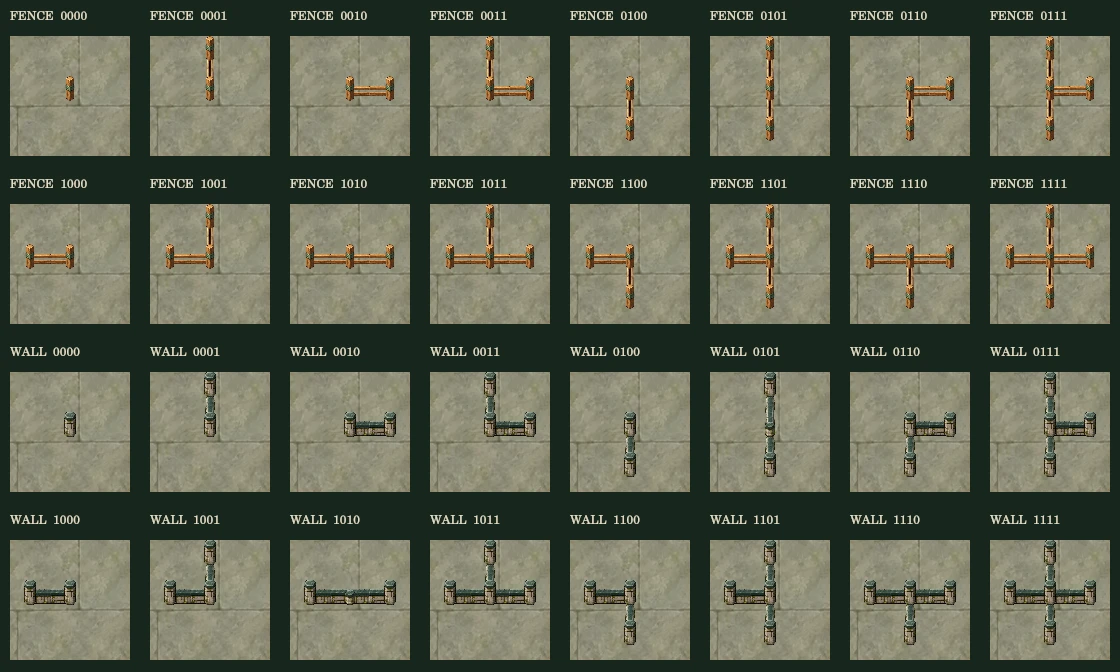
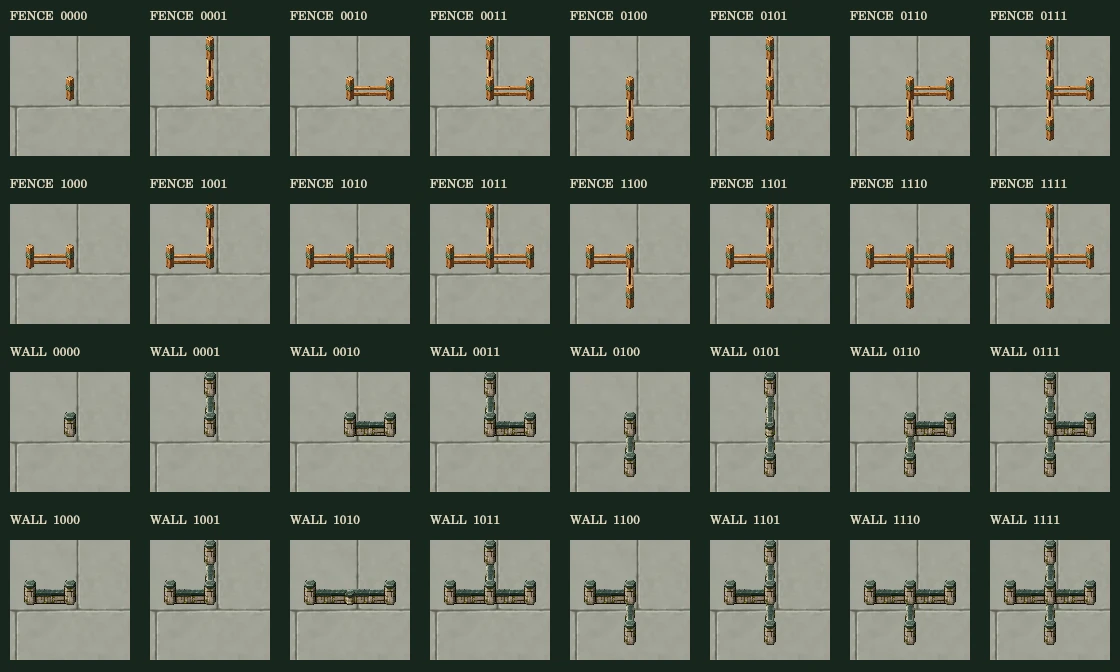
Replace hazy ground art and render terrain at device resolution
Repaint the twenty AI terrain materials with clean restrained colour shapes, reduce prominent repeating land patterns, and keep material order, seeded scenery and all other twenty-eight AI images unchanged. The opaque 512x640 WebP ground atlas is 13,678 bytes; include final prompts and before/after previews.

Copy each isolated material one-to-one and sample crops directly into buffers sized for DPR and zoom, instead of always enlarging to 80px before display rescaling. Refresh raster caches when physical size changes and narrow biome transitions to retain clear surfaces. Update browser/native capture scripts for variable raster dimensions and add high-DPI, zoom and cache verification.

Validation: all 1,855 tests passed; syntax/module audit, module-version checks and diff checks passed. Native Canvas checks pass at DPR 2 with zoom 0.65/1/1.8, four raster scales have zero mirrored seam difference, and all 32 fence/wall states retain connected coverage.

diff --git a/public/world/world-ground.js b/public/world/world-ground.js
@@ -1,7 +1,7 @@
 /* Compose the AI textures through neighbour masks; cache the resulting small tiles. */
 (function(root){
   'use strict';
-  const SIZE=80,SPAN=4;
+  const SPAN=4;
   function textureFrame(Art,t,x=0,y=0){
     const cell=Math.max(0,Art.terrain.indexOf(t)),step=128/SPAN;
     const phase=n=>((n%(SPAN*2))+SPAN*2)%(SPAN*2),px=phase(x),py=phase(y);
@@ -18,10 +18,15 @@
   }
   function transitionAlpha(direction,u,v){
     const distances=[v,1-u,1-v,u,Math.hypot(u,v),Math.hypot(1-u,v),Math.hypot(1-u,1-v),Math.hypot(u,1-v)];
-    return Math.max(0,1-distances[direction]/.24)*.5;
+    return Math.max(0,1-distances[direction]/.12)*.5;
   }
   function create(Art,canvasFactory=()=>document.createElement('canvas')){
-    const tiles=new Map(),masks=new Map(),materials=new Map();
+    const tiles=new Map(),masks=new Map(),materials=new Map();let SIZE=80;
+    function setScale(scale){
+      if(!Number.isFinite(scale)||scale<=0)return;
+      const size=Math.max(26,Math.min(144,Math.round(40*scale)));
+      if(size===SIZE)return;SIZE=size;tiles.clear();masks.clear();
+    }
     const canvas=()=>{const c=canvasFactory();c.width=SIZE;c.height=SIZE;return c;};
     function mask(key,alpha){
       if(masks.has(key))return masks.get(key);
@@ -39,12 +44,15 @@
         const s=textureFrame(Art,t,info.x,info.y);context.save();
         // Isolate atlas cells before enlarging, so filtering cannot pick up another material.
         if(!materials.has(t)){
-          const cell=canvas();cell.width=cell.height=128;
+          const cell=canvas();cell.width=cell.height=124;
           // Ignore the two-pixel rim affected by WebP chroma subsampling at atlas joins.
-          cell.getContext('2d').drawImage(atlas,Math.floor(s.sx/128)*128+2,Math.floor(s.sy/128)*128+2,124,124,0,0,128,128);materials.set(t,cell);
+          cell.getContext('2d').drawImage(atlas,Math.floor(s.sx/128)*128+2,Math.floor(s.sy/128)*128+2,124,124,0,0,124,124);materials.set(t,cell);
         }
         context.translate(s.flipX?SIZE:0,s.flipY?SIZE:0);context.scale(s.flipX?-1:1,s.flipY?-1:1);
-        context.drawImage(materials.get(t),s.sx%128,s.sy%128,s.sw,s.sh,0,0,SIZE,SIZE);context.restore();
+        // Copy the material once at native resolution, then resample each crop
+        // directly to its device-pixel size. Avoid enlarging to 80px and shrinking again.
+        const ratio=124/128;
+        context.drawImage(materials.get(t),(s.sx%128)*ratio,(s.sy%128)*ratio,s.sw*ratio,s.sh*ratio,0,0,SIZE,SIZE);context.restore();
       };
       const overlay=(t,m)=>{
         const layer=canvas(),context=layer.getContext('2d');texture(context,t);context.globalCompositeOperation='destination-in';context.drawImage(m,0,0);c.drawImage(layer,0,0);
@@ -67,7 +75,7 @@
       }
       tiles.set(info.key,target);if(tiles.size>512)tiles.delete(tiles.keys().next().value);return target;
     }
-    return Object.freeze({compose,get cachedTiles(){return tiles.size;}});
+    return Object.freeze({compose,setScale,get tileSize(){return SIZE;},get cachedTiles(){return tiles.size;}});
   }
   const api=Object.freeze({create,roadAlpha,transitionAlpha,textureFrame});
   if(typeof module==='object'&&module.exports)module.exports=api;else root.QAGridWorldGround=api;

diff --git a/public/world/world-renderer.js b/public/world/world-renderer.js
@@ -139,6 +139,7 @@ export class WorldRenderer {
       top=Math.max(0,Math.floor(this.camera.y-this.height/s/2)-2),bottom=Math.min(this.world.SIZE-1,Math.ceil(this.camera.y+this.height/s/2)+2),decor=[];
     const visible=(x,y)=>W.known(d.state.explored,x,y)||!!(b&&x>=b.bounds.x&&x<b.bounds.x+8&&y>=b.bounds.y&&y<b.bounds.y+8),events=b?.events||d.events;
     const scenery=this.sceneryModel(),signature=[left,right,top,bottom,d.state.explored.revision,d.state.explored.all,W.patchRevision,events?.bridge,events?.array,b?.id,b?.revision].join(':');
+    this.ground?.setScale(this.dpr*zoom);
     if(signature!==this.scenerySignature){this.scenerySignature=signature;this.sceneryItems=scenery.inBounds({x:left,y:top,w:right-left+1,h:bottom-top+1},events,visible);}
     for(let y=top;y<=bottom;y++)for(let x=left;x<=right;x++){
       const discovered=visible(x,y);

diff --git a/public/assets/world-map/ai/ground-prompts.md b/public/assets/world-map/ai/ground-prompts.md
@@ -1,22 +1,30 @@
-# 簡化地面材質
+# 清晰地面材質
 
-使用內建 `image_gen`，以原本的地面圖集為編輯輸入，重新繪製二十種低細節材質。正式檔案為 `ground-atlas.webp`（512 × 640，每格 128 × 128）；來源 SHA-256 與下載大小見 `manifest.json`。
+使用內建 `image_gen` 重新繪製二十種地面材質，並進行一次降低重複花紋的定向修訂。最終來源為 `exec-848dabaf-24e9-4033-8add-c1929411134d.png`；正式檔案 `ground-atlas.webp` 維持 512 × 640、每格 128 × 128、不透明 WebP，quality 84。來源 SHA-256 與大小見 `manifest.json`。
 
-原始生成圖為 1122 × 1402。依實際材質邊界裁切：`columns: [0,268,561,855,1122]`、`rows: [0,262,526,790,1054,1402]`、`inset: 3`。打包器的 `inset` 排除交界色；繪製時再排除壓縮圖集邊緣的兩像素，防止 WebP 色度取樣造成異色細線。
+原始圖 1122 × 1402；裁切參數 `columns: [0,280,561,841,1122]`、`rows: [0,278,554,822,1088,1402]`、`inset: 3`。地面維持四乘四地格延伸與鏡像銜接；主色面積提高，小色塊降低對比，避免霧狀暈染與明顯的重複菱形圖案。建築、角色與地景物件沒有改圖。
 
-一張材質延伸四乘四地格，整塊鏡像銜接。道路仍依相鄰方向遮罩連接，河岸與地形交界保留混合。竹子、石頭、營地圍欄與建築繼續使用獨立圖片，地面不再承擔物件細節。
+繪製時以 124 × 124 像素原比例隔離材質，排除圖集壓縮邊緣；分區直接取樣至 `40 × DPR × zoom` 的實體像素尺寸，避免固定放大到 80 再縮小。縮放改變時更新地格與遮罩快取，原材質快取保留。不同生態的過渡限於交界 12% 寬度，保留連接、道路轉角及橋梁方向。
 
-## 生成提示詞
+## 初次重繪
+
+輸入：原本偏柔的地面圖集，保留二十格順序與大致配色。
 
 ```text
-Use case: style-transfer.
-Asset type: production terrain texture atlas for a top-down Chinese xianxia mobile grid-world game. Edit target: the attached existing 4-column by 5-row texture atlas. Redraw all twenty cells to solve extreme visual clutter from detailed photorealistic terrain repeated in tiny 40px game tiles.
-Keep exactly the SAME 4 x 5 grid, same cell order, equal square cell sizes, flush edge-to-edge with absolutely NO gutters, NO margins, NO visible grid or frames. Output dimensions 1024 x 1280. Every cell must be an opaque flat ground MATERIAL filling its whole square, never a diorama or raised floating tile. Preserve recognizable material and approximate existing hue, but simplify dramatically to restrained hand-painted game art: extremely calm, softly blended broad color masses with at most 2 or 3 very subtle organic low-contrast patches. Each tile will repeat across hundreds of cells. Texture variation within a tile should stay within about 5 percent brightness for grass/dirt/stone/snow. No focal point, no dark edges, no vignette. All four edges of each cell must meet seamlessly with copies of itself. Do not bake objects into the ground; trees, rocks, fences, bamboo and buildings are separate sprites.
-EXACT cell order left to right, top to bottom:
-Row 1: (1) muted sage green plain short-grass ground, no individual blades; (2) warm tan packed dirt road material, no pebbles; (3) pale gray-green courtyard stone, only two or three large very faint slab seams, no chips; (4) muted dark olive mountain earth, no pebbles or moss flecks.
-Row 2: (5) quiet soft turquoise river surface, only one or two very faint broad rounded ripples, no caustic net; (6) subdued warm gray-brown wooden bridge planks, only three large broad planks; (7) same quiet bridge wood, tiny damage hint only; (8) muted jade green bamboo-forest earth, flat and empty, no leaves or stems.
-Row 3: (9) slate gray rock material, large soft tonal masses and at most one faint wide crack, no gravel; (10) quiet gray sealed ground with one extremely faint broad seal circle; (11) muted deep slate blue ocean surface, almost flat, two soft broad ripples, no foam; (12) calm warm pale sand, no footprints or stones.
-Row 4: (13) dark desaturated green forest floor, no leaves or twigs; (14) muted golden desert sand with one faint broad dune contour; (15) pale cool snow, nearly flat with gentle shaded undulation; (16) gray-olive swamp ground, softly blended, no gravel or details.
-Row 5: (17) pale warm gray stone field ground, no scattered stones or gravel; (18) quiet charcoal volcanic ground with a single subtle dim rust-colored fissure; (19) muted dark orange-red lava with just one or two broad soft orange bands, avoid bright yellow busy veins; (20) pale gray-green plaza stone with only a single very faint large circular inlay, no ornamental pattern.
-Style target: clean softly painted RPG ground, pleasant subdued palette, generous visual quiet, character and building readability. Remove 90 percent of the source detail and microtexture. Avoid photographic grain, speckles, stippling, tight grass blades, repeated fine lines, pebbles, tiny flowers, high contrast cracks, decorative patterns, checkerboards, text, labels, symbols outside the subtle seal/plaza, UI, shadows around cell edges. This atlas should look deliberately simple at 100 percent view; do not reintroduce details to make it look more realistic.
+Use case: style-transfer. Asset type: production opaque terrain texture atlas for a Chinese xianxia overhead 2D mobile grid RPG. EDIT the attached existing 4-column by 5-row atlas. Keep every material in exactly its current position and retain the overall muted natural color palette, but REMOVE the foggy muddy blurry cloud texture completely. The game should have SIMPLE, CRISP, CLEAN GROUND under detailed miniature characters, buildings and plants. Main visual direction: restrained hand-painted cel-shaded game material, flat dominant base color with just 2-4 broad clean-edged tonal shapes per cell. All surfaces in sharp focus. Keep edges of tonal shapes legible and deliberate, with only minimal antialiasing, NO blurry airbrush blending. Shapes should be organic, not perfect vector symbols. Contrast is modest but clear; no milky white veil, no washed-out desaturated haze. No grain, mottled noise, photographic textures, watercolor bloom, soft clouds, cloudy marbling, fine scattered particles, detailed blades or tiny stones. This is low DETAIL, not low CLARITY. Exactly FOUR columns and FIVE rows of equal square cells, no gaps, frames, grid strokes or labels, flush opaque materials edge-to-edge, portrait 4:5 image. Each cell must fill its entire square, seamless on opposite sides, no dark border, no vignette, no bevel or floating tile. Pure overhead camera.
+Cell order left to right:
+Row1: (1) clear muted leaf-green meadow, almost uniform with only 2 small clean-edged darker grass-color patches, no drawn blades; (2) warm tan packed-earth road, nearly uniform with two broad earth-color shapes, no pebbles; (3) pale warm jade-grey courtyard with a FEW large clearly defined stone slabs and thin restrained joints, no cracks or moss speckles; (4) muted olive brown mountain earth with 2-3 broad clean rocky soil shapes, no loose pebbles.
+Row2: (5) calm turquoise river with THREE sparse distinct gently curved lighter ripple strokes, no caustic net; (6) warm brown bridge deck with FOUR broad clean wooden planks, no grain; (7) matching broad wood with a simple small broken gap, no debris; (8) calm muted jade-green bamboo soil, almost flat with two restrained leaf-color patches, no bamboo or leaves drawn individually.
+Row3: (9) slate grey cliff rock with 2-3 large clean planar rock shapes; (10) grey sealed ground with one sparse faint but crisp large abstract ring, no letters; (11) rich muted deep blue ocean with 3 broad sparse defined wave strokes, no foam; (12) pale warm sandy beach, almost uniform with 2 broad clean-edged sand shapes.
+Row4: (13) dark forest-green soil, nearly uniform with 2 broad dark shapes, no leaf litter; (14) ochre desert with TWO clean broad dune contours, no gradients; (15) clean pale cool snow with 2 defined light blue snow-shadow shapes, no haze; (16) quiet grey-olive swamp with 2-3 clean dark shallow puddle shapes, no speckles or reeds.
+Row5: (17) warm light grey stone field, almost uniform with 2 broad grey rock-color patches, no pebbles or stones; (18) charcoal volcanic ground with ONE clean narrow dim rust fissure, no fine cracks; (19) muted red-orange lava with THREE broad defined orange flow bands and a few large dark crust shapes, no glow haze, no bright busy veins; (20) pale jade-grey plaza with large simple slabs and one sparse crisp circular inlay, no decorative engraving.
+No objects, people, buildings, trees, rocks, props, text, letters, labels, watermark or UI. Do not sharpen the old noisy texture: repaint it as calm crisp intentional shapes. The result should stay quiet when repeated over a large map, with clear small characters in front. Fully opaque image.
+```
+
+## 最終修訂
+
+輸入：第一次重繪結果。只減少陸地色塊的面積、對比及斜向條帶，保留清晰輪廓與其他材質。
+
+```text
+Use case: precise-object-edit. Edit this twenty-cell 4-column x 5-row opaque ground texture atlas. Keep EXACT same layout, cell boundaries, material identities, river/ocean/bridge/lava textures and large courtyard/slab/inlay details. The result is already much clearer, but the LAND color patches are too large and diagonal: when mirrored in game they form conspicuous repeated X/diamond patterns. Fix ONLY the land material tonal pattern. For grass cell 1 and bamboo soil cell 8 use an almost uniform calm green base, with at most TWO SMALL sparse off-centre irregular patches occupying less than 12% of that cell combined. Patch shade only 5 percent darker than base. For stone field cell 17 use almost uniform pale warm grey, with ONE small sparse off-centre clean-edged grey patch at most 8% of the cell and only 4 percent darker than base. No diagonal bands, no large connected shapes, no marbling. Mountain earth cell 4, forest soil cell 13, beach cell 12, desert cell 14, snow cell 15 and swamp cell 16 must also be predominantly flat base color; keep just one or two small very restrained off-centre shapes, NO huge diagonal stripes. Each land cell's outermost 15 percent rim must be its uniform base color on all edges so repeats are quiet. Keep edges of the few shapes clean and in sharp focus. DO NOT blur, airbrush or introduce fog, grain, noise, tiny grass marks, watercolor bloom, mottling or glow. Keep crisp clean hand-painted game material style, not busy or cloudy. Keep every other cell exactly as in the input, no borders, gutters, labels, objects or text. Entire image fully opaque. Calm spacious surfaces with clear miniature character readability.
 ```

diff --git a/public/assets/world-map/ai/README.md b/public/assets/world-map/ai/README.md
@@ -26,7 +26,7 @@
 - 柵欄、圍牆使用新生成的 `fence-connectors-atlas.webp`、`wall-connectors-atlas.webp`（各 384 × 256），拆成中心柱及北／東／南／西半段。依相鄰同材質地格自動決定 16 種連接狀態，沒有鄰格的方向不畫橫桿，轉角／T 字／十字不再疊整片柵欄。柵欄保留中心柱，直線石牆改用低接頭；入口只沿兩側連接，不連斜角或不同材質。素材與最終修訂提示詞見 `barrier-prompts.md`。
 - 竹林以種子散布三種竹叢，混入灌木並保留空地；石域以鄰格優先規則放置三種散石，八方向相鄰格不會同時放石頭，跨區塊也一致。
 - 營地配置相連柵欄、開放入口、物資、柴堆與營火；遺跡有斷牆、石柱與碎石。鍛造坊、契器閣與仙榜分別配置武器架、方尖碑及卷軸架。周邊避開道路和其他物件，與建築的原始正門方向一致。
-- 地面使用簡化後的低細節材質，以四乘四地格延伸一張紋理，避免每小格重複碎紋；規格與生成提示詞見 `ground-prompts.md`。
+- 地面使用低細節、清楚色塊的 AI 材質，以四乘四地格延伸一張紋理。原圖不使用霧狀暈染，直接取樣至符合 DPR 與縮放比例的畫面像素，減少反覆縮放；不同生態只在窄交界混合。規格與最終生成提示詞見 `ground-prompts.md`。
 - 透明背景、接地位置、前後遮擋與圖片超出地格後的點選共用 `public/world/world-art.js`。透明像素不截取旁邊地格的點擊。
 - `manifest.json` 列出尺寸、檔案大小、來源名稱與來源 SHA-256；生成提示詞在 `prompts.md`、`scenery-prompts.md`、`ground-prompts.md` 和 `barrier-prompts.md`。舊四向地景圖集的整段柵欄／圍牆格已不再用於遊戲中的連接結構，其他入口、斷牆、橋梁等格繼續使用。
 - 地形、建築座標、種子、通行與獎勵仍由原本的世界生成器和伺服器決定。

diff --git a/docs/design/world-scenery/README.md b/docs/design/world-scenery/README.md
@@ -11,3 +11,7 @@
 ![四向連接狀態](native/connections.webp)
 
 可安裝選用的 `@napi-rs/canvas` 後執行 `node scripts/capture-world-scenery-native.cjs` 重現。具備 Playwright Chromium 的環境也可執行既有的 `scripts/capture-world-scenery.cjs` 取得瀏覽器預覽。
+
+地面清晰度更新的同場景對照見 `native/ground-comparison.webp`（左為更新前、右為更新後）。高解析度手機畫面見 `native/phone-hidpi.webp`；原生 Canvas 驗證也檢查 DPR 2 下縮放 0.65、1、1.8 的實體像素快取尺寸，以及四種解析度的材質接縫。
+
+![地面清晰度前後對照](native/ground-comparison.webp)
